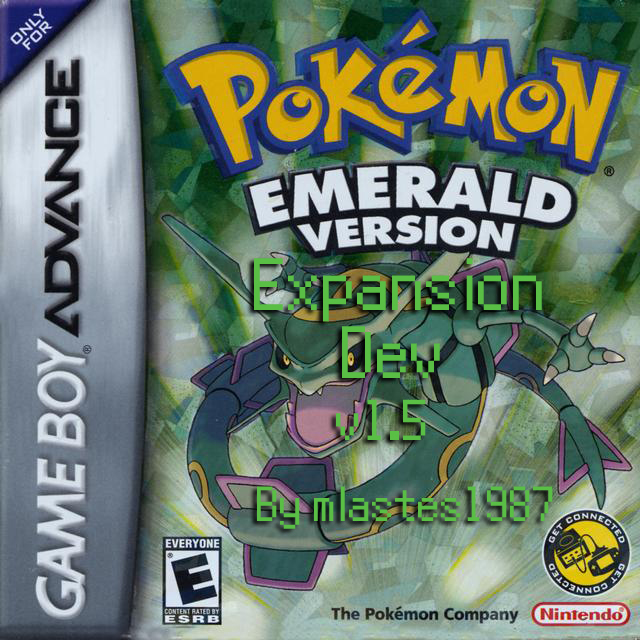
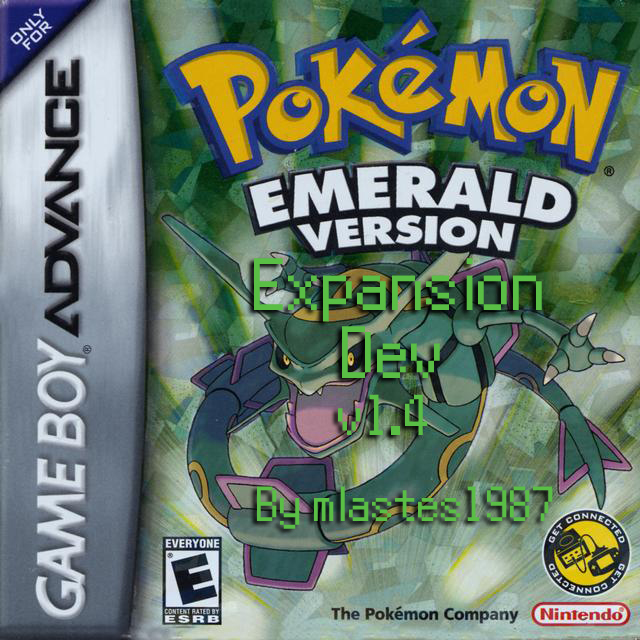
Push back to 1.4 as the changes caused build errors.

Changed region(s): [[0.5, 0.5938, 0.6875, 0.7188]]

diff --git a/src/data/pokemon/species_info/gen_6_families.h b/src/data/pokemon/species_info/gen_6_families.h
@@ -4373,7 +4373,8 @@ const struct SpeciesInfo gSpeciesInfoGen6[] =
         .levelUpLearnset = sPhantumpLevelUpLearnset,
         .teachableLearnset = sPhantumpTeachableLearnset,
         .eggMoveLearnset = sPhantumpEggMoveLearnset,
-        .evolutions = EVOLUTION({EVO_LEVEL, 37, SPECIES_TREVENANT}),
+        .evolutions = EVOLUTION({EVO_TRADE, 0, SPECIES_TREVENANT},
+                                {EVO_ITEM, ITEM_LINKING_CORD, SPECIES_TREVENANT}),
     },
 
     [SPECIES_TREVENANT] =
@@ -4498,7 +4499,8 @@ const struct SpeciesInfo gSpeciesInfoGen6[] =
         .teachableLearnset = sPumpkabooTeachableLearnset,
         .eggMoveLearnset = sPumpkabooEggMoveLearnset,
         .formSpeciesIdTable = sPumpkabooFormSpeciesIdTable,
-        .evolutions = EVOLUTION({EVO_LEVEL, 37, SPECIES_GOURGEIST_AVERAGE}),
+        .evolutions = EVOLUTION({EVO_TRADE, 0, SPECIES_GOURGEIST_AVERAGE},
+                                {EVO_ITEM, ITEM_LINKING_CORD, SPECIES_GOURGEIST_AVERAGE}),
     },
 
     [SPECIES_PUMPKABOO_SMALL] =
@@ -4560,7 +4562,8 @@ const struct SpeciesInfo gSpeciesInfoGen6[] =
         .teachableLearnset = sPumpkabooTeachableLearnset,
         .eggMoveLearnset = sPumpkabooEggMoveLearnset,
         .formSpeciesIdTable = sPumpkabooFormSpeciesIdTable,
-        .evolutions = EVOLUTION({EVO_LEVEL, 37, SPECIES_GOURGEIST_SMALL),
+        .evolutions = EVOLUTION({EVO_TRADE, 0, SPECIES_GOURGEIST_SMALL},
+                                {EVO_ITEM, ITEM_LINKING_CORD, SPECIES_GOURGEIST_SMALL}),
     },
 
     [SPECIES_PUMPKABOO_LARGE] =
@@ -4622,7 +4625,8 @@ const struct SpeciesInfo gSpeciesInfoGen6[] =
         .teachableLearnset = sPumpkabooTeachableLearnset,
         .eggMoveLearnset = sPumpkabooEggMoveLearnset,
         .formSpeciesIdTable = sPumpkabooFormSpeciesIdTable,
-        .evolutions = EVOLUTION({EVO_LEVEL, 37, SPECIES_GOURGEIST_LARGE}),
+        .evolutions = EVOLUTION({EVO_TRADE, 0, SPECIES_GOURGEIST_LARGE},
+                                {EVO_ITEM, ITEM_LINKING_CORD, SPECIES_GOURGEIST_LARGE}),
     },
 
     [SPECIES_PUMPKABOO_SUPER] =
@@ -4686,7 +4690,8 @@ const struct SpeciesInfo gSpeciesInfoGen6[] =
         .teachableLearnset = sPumpkabooTeachableLearnset,
         .eggMoveLearnset = sPumpkabooEggMoveLearnset,
         .formSpeciesIdTable = sPumpkabooFormSpeciesIdTable,
-        .evolutions = EVOLUTION({EVO_LEVEL, 37, SPECIES_GOURGEIST_SUPER}),
+        .evolutions = EVOLUTION({EVO_TRADE, 0, SPECIES_GOURGEIST_SUPER},
+                                {EVO_ITEM, ITEM_LINKING_CORD, SPECIES_GOURGEIST_SUPER}),
     },
 
     [SPECIES_GOURGEIST_AVERAGE] =

diff --git a/src/data/pokemon/species_info/gen_1_families.h b/src/data/pokemon/species_info/gen_1_families.h
@@ -7404,7 +7404,8 @@ const struct SpeciesInfo gSpeciesInfoGen1[] =
         )
         .levelUpLearnset = sKadabraLevelUpLearnset,
         .teachableLearnset = sKadabraTeachableLearnset,
-        .evolutions = EVOLUTION({EVO_LEVEL, 37, SPECIES_ALAKAZAM}),
+        .evolutions = EVOLUTION({EVO_TRADE, 0, SPECIES_ALAKAZAM},
+                                {EVO_ITEM, ITEM_LINKING_CORD, SPECIES_ALAKAZAM}),
     },
 
 #define ALAKAZAM_SP_DEF (P_UPDATED_STATS >= GEN_6 ? 95 : 85)
@@ -7681,7 +7682,8 @@ const struct SpeciesInfo gSpeciesInfoGen1[] =
         )
         .levelUpLearnset = sMachokeLevelUpLearnset,
         .teachableLearnset = sMachokeTeachableLearnset,
-        .evolutions = EVOLUTION({EVO_LEVEL, 37, SPECIES_MACHAMP}),
+        .evolutions = EVOLUTION({EVO_TRADE, 0, SPECIES_MACHAMP},
+                                {EVO_ITEM, ITEM_LINKING_CORD, SPECIES_MACHAMP}),
     },
 
 #if P_UPDATED_EXP_YIELDS >= GEN_8
@@ -8290,7 +8292,7 @@ const struct SpeciesInfo gSpeciesInfoGen1[] =
         .teachableLearnset = sGravelerTeachableLearnset,
         .formSpeciesIdTable = sGravelerFormSpeciesIdTable,
         .evolutions = EVOLUTION({EVO_TRADE, 0, SPECIES_GOLEM},
-                                {EVO_ITEM, ITEM_FIRE_STONE, SPECIES_GOLEM}),
+                                {EVO_ITEM, ITEM_LINKING_CORD, SPECIES_GOLEM}),
     },
 
     [SPECIES_GOLEM] =
@@ -8483,7 +8485,8 @@ const struct SpeciesInfo gSpeciesInfoGen1[] =
         .levelUpLearnset = sGravelerAlolanLevelUpLearnset,
         .teachableLearnset = sGravelerAlolanTeachableLearnset,
         .formSpeciesIdTable = sGravelerFormSpeciesIdTable,
-        .evolutions = EVOLUTION({EVO_LEVEL, 37, SPECIES_GOLEM_ALOLAN}),
+        .evolutions = EVOLUTION({EVO_TRADE, 0, SPECIES_GOLEM_ALOLAN},
+                                {EVO_ITEM, ITEM_LINKING_CORD, SPECIES_GOLEM_ALOLAN}),
     },
 
     [SPECIES_GOLEM_ALOLAN] =
@@ -10452,7 +10455,8 @@ const struct SpeciesInfo gSpeciesInfoGen1[] =
         )
         .levelUpLearnset = sHaunterLevelUpLearnset,
         .teachableLearnset = sHaunterTeachableLearnset,
-        .evolutions = EVOLUTION({EVO_LEVEL, 37, SPECIES_GENGAR}),
+        .evolutions = EVOLUTION({EVO_TRADE, 0, SPECIES_GENGAR},
+                                {EVO_ITEM, ITEM_LINKING_CORD, SPECIES_GENGAR}),
     },
 
 #if P_UPDATED_ABILITIES >= GEN_7

diff --git a/src/data/pokemon/species_info/gen_5_families.h b/src/data/pokemon/species_info/gen_5_families.h
@@ -2085,7 +2085,8 @@ const struct SpeciesInfo gSpeciesInfoGen5[] =
         )
         .levelUpLearnset = sBoldoreLevelUpLearnset,
         .teachableLearnset = sBoldoreTeachableLearnset,
-        .evolutions = EVOLUTION({EVO_LEVEL, 37, SPECIES_GIGALITH}),
+        .evolutions = EVOLUTION({EVO_TRADE, 0, SPECIES_GIGALITH},
+                                {EVO_ITEM, ITEM_LINKING_CORD, SPECIES_GIGALITH}),
     },
 
     [SPECIES_GIGALITH] =
@@ -2661,7 +2662,8 @@ const struct SpeciesInfo gSpeciesInfoGen5[] =
         )
         .levelUpLearnset = sGurdurrLevelUpLearnset,
         .teachableLearnset = sGurdurrTeachableLearnset,
-        .evolutions = EVOLUTION({EVO_LEVEL, 37, SPECIES_CONKELDURR}),
+        .evolutions = EVOLUTION({EVO_TRADE, 0, SPECIES_CONKELDURR},
+                                {EVO_ITEM, ITEM_LINKING_CORD, SPECIES_CONKELDURR}),
     },
 
     [SPECIES_CONKELDURR] =
